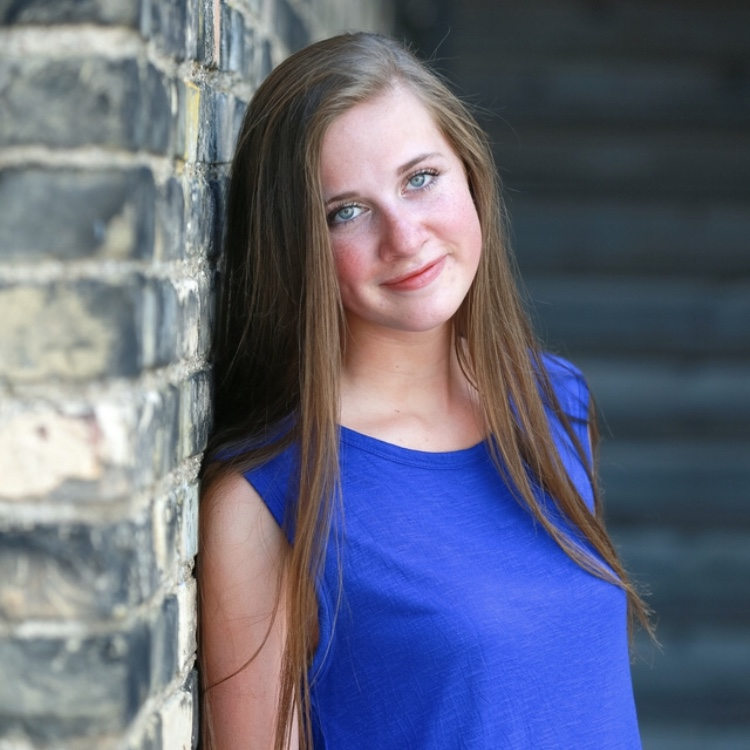
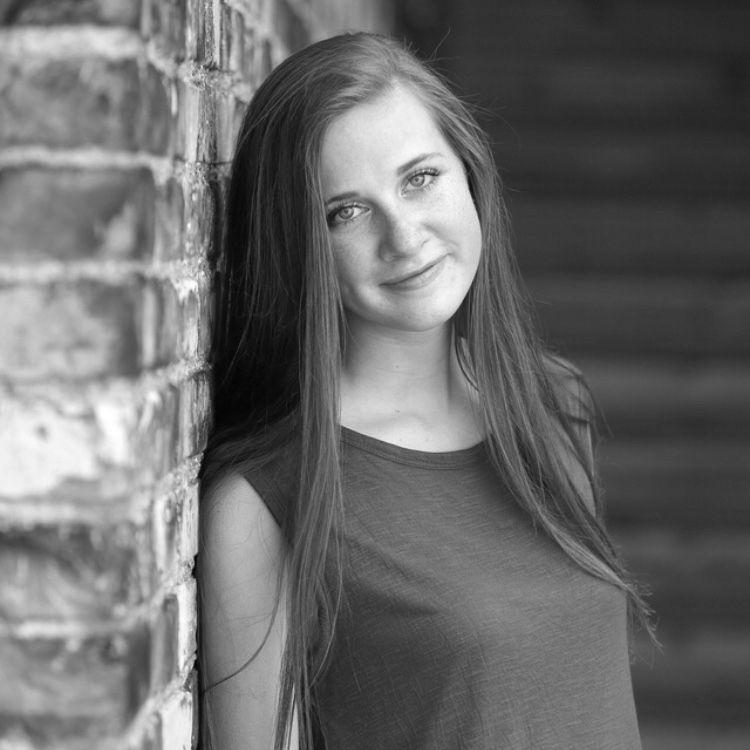
update: resizing headshots, changing headshots to black and white, updating footer html and css

diff --git a/index.html b/index.html
@@ -81,11 +81,11 @@
 
     <div id="pictures" class="container-fluid justify-content-center">
       <div class="picture-row-top row">
-        <div class="pics col-md-2 text-center"><img src="headshots/morgan.jpg" alt="Morgan Richardson">
+        <div class="pics col-md-2 text-center"><img src="headshots/morgan.png" alt="Morgan Richardson">
           <h5 class="student-name">Morgan Richardson</h5>
           <h6 class="student-details">President, Junior, Software Engineering</h6>
         </div>
-        <div class="pics col-md-2 text-center"><img src="headshots/placeholder.png" alt="Jarod Navarro">
+        <div class="pics col-md-2 text-center"><img src="headshots/jarod.jpg" alt="Jarod Navarro">
           <h5 class="student-name">Jarod Navarro</h5>
           <h6 class="student-details">Vice President, Graduate, Software Engineering</h6></div>
         <div class="pics col-md-2 text-center"><img src="headshots/placeholder.png" alt="Ivan Kavanagh">
@@ -130,7 +130,7 @@
           <h3 class="heading">Opportunities</h3>
           <div class="heading-underline-opportunities"></div>
           <div class="col-lg text-center">
-              <!-- TODO: Add content... -->
+              <p class="opportunities-content">Opportunities coming soon...</p>
           </div>
         </div>
       </div>
@@ -177,7 +177,7 @@
         </div>
         <div class="clubs row">
           <div class="col-lg text-center">
-            <p>Cybersecurity club explanation here.
+            <p>Cybersecurity club explanation coming soon...
             </p>
           </div>
         </div>
@@ -196,7 +196,7 @@
           <div class="col-lg text-center">
             <p>The main role of Loyola's Computer Science Student Advisory Council is to accept student feedback
               and use this information to improve the CS department. If you are currently a student enrolled
-              at Loyola University in Chicago, feel free to submit this feeback form. We appreciate all of your
+              at Loyola University in Chicago, feel free to contact us directly. We appreciate all of your
               feedback and suggestions!</p>
           </div>
         </div>
@@ -206,6 +206,12 @@
 
     <footer>
       <div class="footer navbar-fixed-bottom">
+      <a href="https://www.luc.edu"><img src="index.png" alt="logo"></a>
+      <!-- <ul>
+        <li>Link1</li>
+        <li>Link2</li>
+        <li>Link3</li>
+      </ul> -->
     </footer>
 
     <!-- Script Source Files -->

diff --git a/style/style.css b/style/style.css
@@ -194,17 +194,22 @@ a:hover {
 .pics img {
   width: 100%;
   height: 75%;
+  transition: transform .2s;
   border-radius: 50%;
 }
 
+.pics img:hover {
+  transform: scale(1.1);
+}
+
 .student-name {
-  padding-top: 0.5rem;
-  font-size: 1rem;
+  padding-top: 0.9rem;
+  font-size: 1.1rem;
 }
 
 .student-details {
-  margin-top: -0.4rem;
-  font-size: 0.5rem;
+  margin-top: -0.3rem;
+  font-size: 0.7rem;
   color: gray;
 }
 /* End headshot, name, and information styling */
@@ -218,7 +223,7 @@ a:hover {
 /* Start OPPORTUNITIES styling */
 .heading-underline-opportunities {
   width: 18rem;
-  height: .05rem;
+  height: 0.1rem;
   background-color: #800000;
   margin: 0 auto 2rem;
 }
@@ -231,6 +236,11 @@ a:hover {
 
 .jumbotron {
   background-color: white;
+}
+
+.opportunities-content {
+  font-size: 1rem;
+  color: black;
 }
 /* End OPPORTUNITIES styling */
 
@@ -264,10 +274,18 @@ a:hover {
 
 /* Start footer styling */
 .footer {
-  background-color: #800000;
+  background-color: gray;
   position: sticky;
   height: 100px;
   bottom: 0;
   width: 100%;
+  justify-content: center;
+}
+
+.footer img {
+  width: 12rem;
+  padding-right: 2rem;
+  padding-top: 1.5rem;
+  float: right;
 }
 /* End footer styling */
